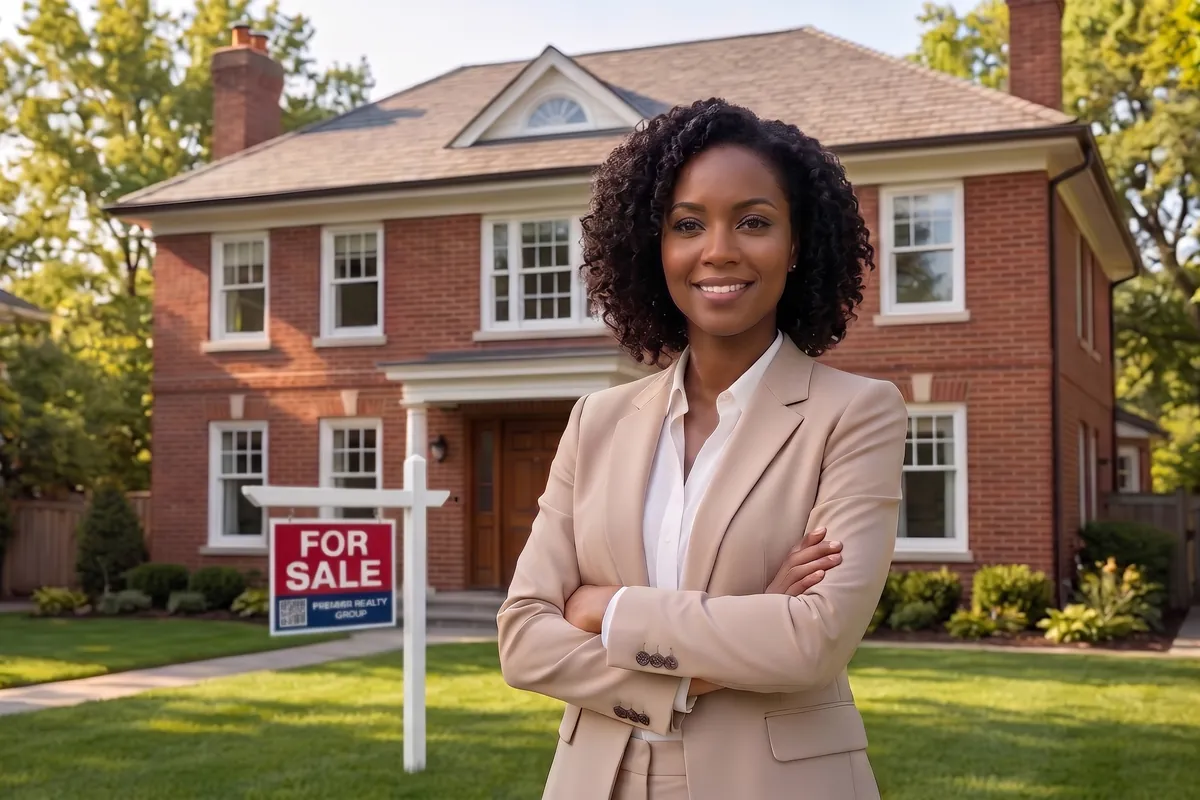
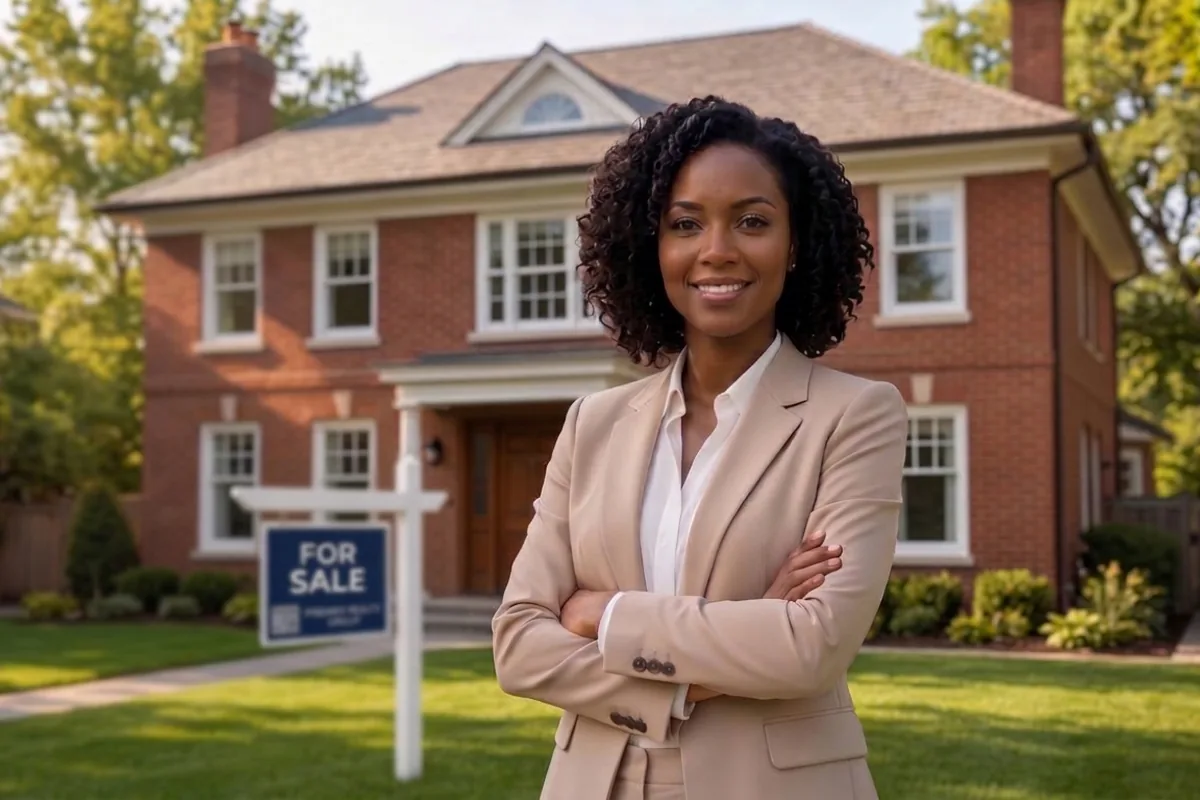
RE landing: new second hero photo (agent in front of a house, blue For Sale sign), cropped to 3:2 like the old one

diff --git a/re/index.html b/re/index.html
@@ -227,7 +227,7 @@
     </div>
     <div class="hero-demo" id="hero-rot">
       <img class="hero-photo rot-active" src="/re/img/hero-re.jpg?v=efaff17fa3" width="1200" height="800" alt="Real estate agent holding a tablet while a couple tours a home" fetchpriority="high">
-      <img class="hero-photo" data-src="/re/img/hero-re-2.webp?v=20261030" width="1200" height="800" alt="Real estate agent standing in front of a house for sale" loading="lazy">
+      <img class="hero-photo" data-src="/re/img/hero-re-2.webp?v=20261101" width="1200" height="800" alt="Real estate agent standing in front of a house for sale" loading="lazy">
     </div>
   </div>
 </section>
